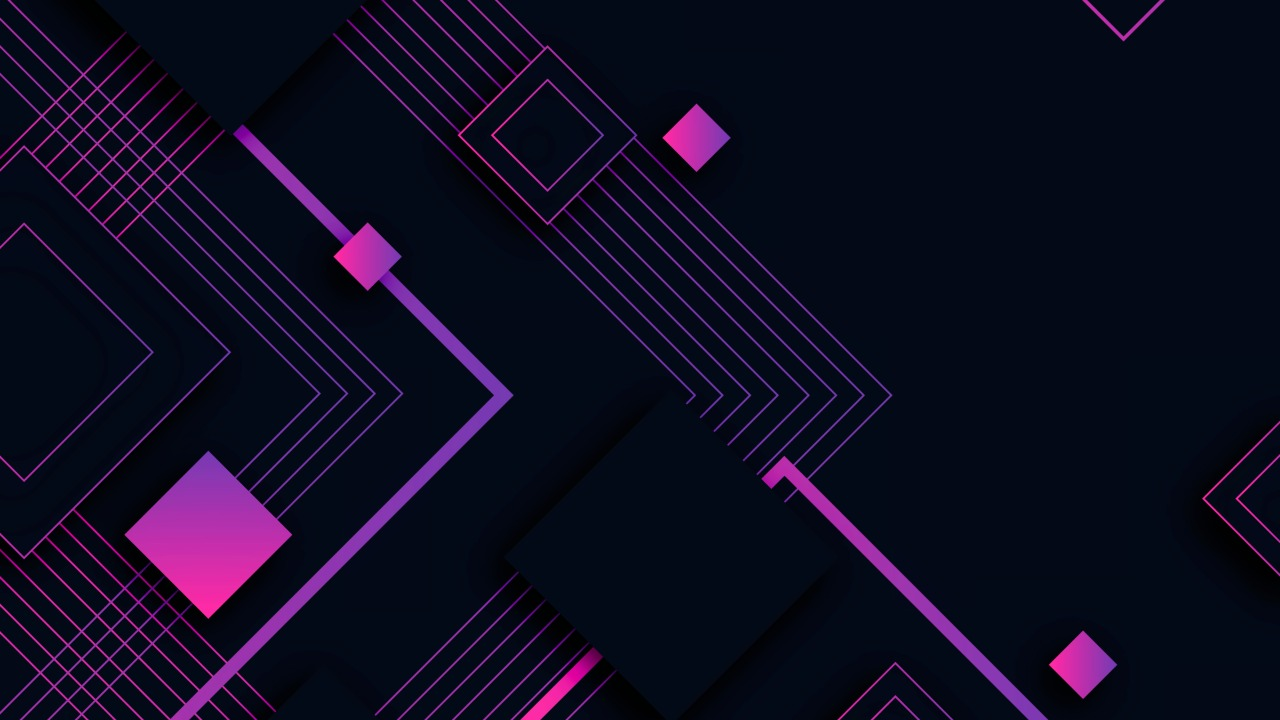
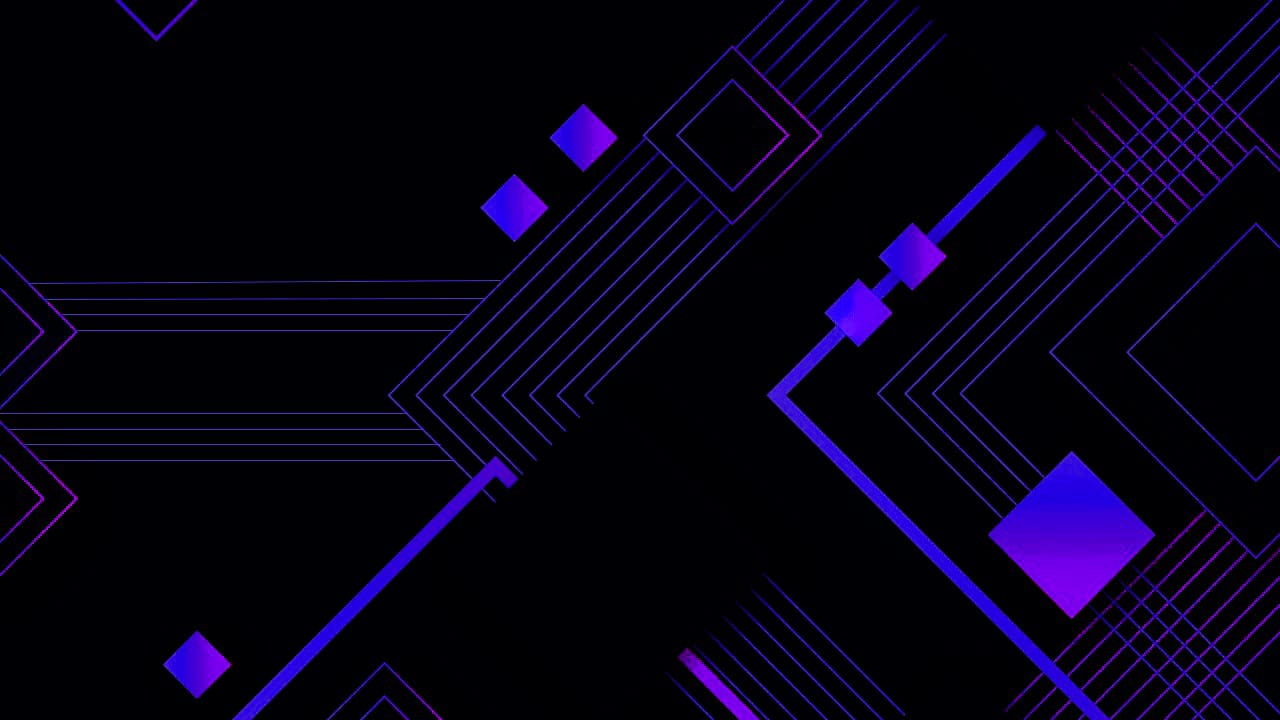
Mudanças no html e css

diff --git a/style/sass/style.scss b/style/sass/style.scss
@@ -9,19 +9,27 @@ body{
     display: grid;
     grid-template-rows: 10vh 100vh 10vh;
     header{
-        background-image: url(../../img/img1.jpeg);
+        background-image: url(../../img/img2.jpg);
         width: 100%;
         height: 400px;
         nav{
             position: fixed;
             margin: auto;
+            max-width: 1300px;
             width: 100%;
             ul{
                 display: flex;
                 list-style: none;
+                .portfolio{
+                    p{
+                        font-size: 30px;
+                        color: white;
+                    }
+                }
                 li{
-                    padding: 10px;
+                    padding: 5px;
                     margin: auto;
+                    
                     a{
                         color: white;
                         text-decoration: none;
@@ -74,13 +82,29 @@ body{
 
 // Media tablet
 @media (max-width: 798px) {
-    
+    header{
+        nav{
+            ul{
+                .portfolio{
+                    display: none;
+                }
+            }
+        }
+    }
 }
 
 
 // Media para mobile
 @media (max-width: 415px) {
-    
+    header{
+        nav{
+            ul{
+                .portfolio{
+                    display: none;
+                }
+            }
+        }
+    }
 }
 
 

diff --git a/style/css/style.css b/style/css/style.css
@@ -6,21 +6,26 @@ body {
   grid-template-rows: 10vh 100vh 10vh;
 }
 body header {
-  background-image: url(../../img/img1.jpeg);
+  background-image: url(../../img/img2.jpg);
   width: 100%;
   height: 400px;
 }
 body header nav {
   position: fixed;
   margin: auto;
+  max-width: 1300px;
   width: 100%;
 }
 body header nav ul {
   display: flex;
   list-style: none;
 }
+body header nav ul .portfolio p {
+  font-size: 30px;
+  color: white;
+}
 body header nav ul li {
-  padding: 10px;
+  padding: 5px;
   margin: auto;
 }
 body header nav ul li a {
@@ -53,6 +58,16 @@ body main #aboutMe .foto_aboutMe {
 }
 body main #aboutMe .text_aboutMe {
   background-color: green;
+}
+@media (max-width: 798px) {
+  header nav ul .portfolio {
+    display: none;
+  }
+}
+@media (max-width: 415px) {
+  header nav ul .portfolio {
+    display: none;
+  }
 }
 
 /*# sourceMappingURL=style.css.map */

diff --git a/index.html b/index.html
@@ -15,6 +15,9 @@
     <header>
         <nav>
             <ul>
+                <li class="portfolio">
+                    <p href="#" >Portfólio</p>
+                </li>
                 <li>
                     <a href="#">Home</a>
                 </li>
